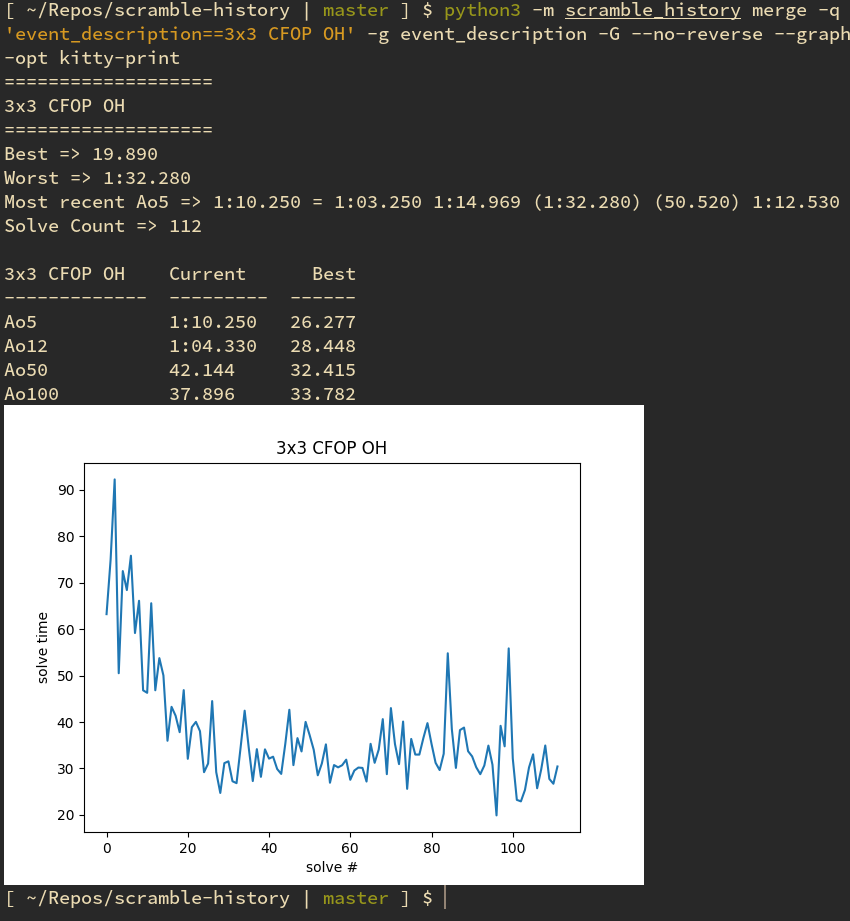
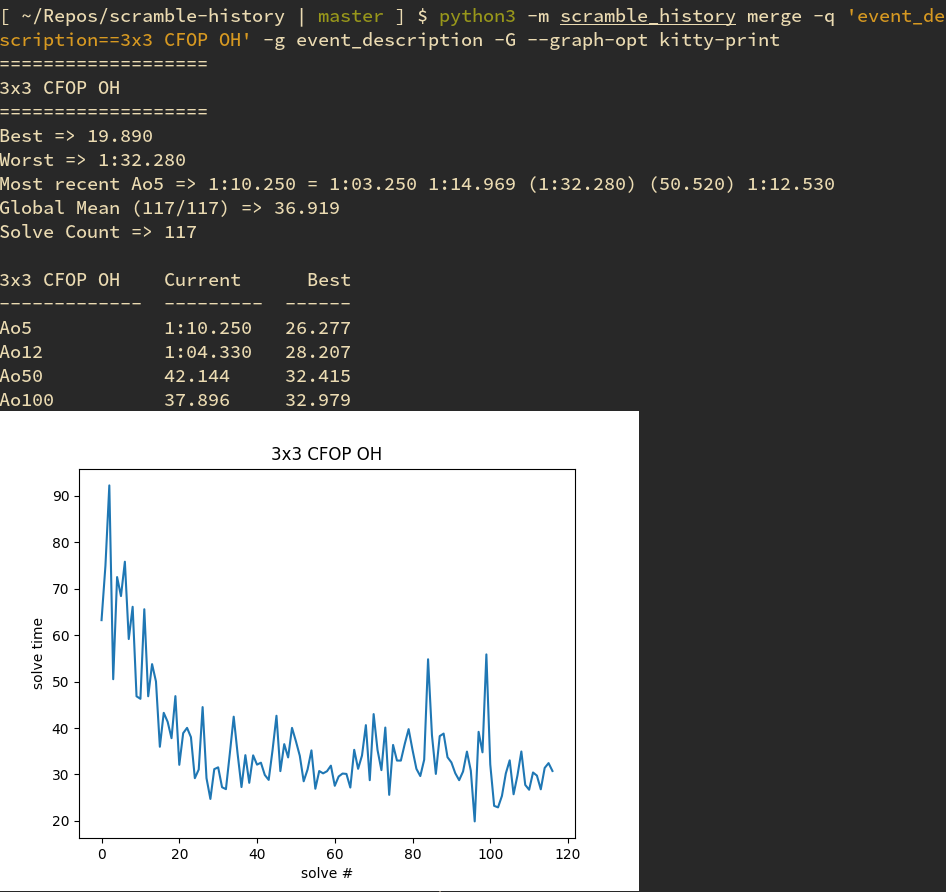
docs: fixed descriptions/reverse usage in readme

Changed region(s): [[0.0, 0.0, 1.0, 1.0], [0.8871, 0.2119, 1.0, 0.2422]]

diff --git a/tests/test_grouping.py b/tests/test_grouping.py
@@ -114,7 +114,7 @@ def test_average() -> None:
     assert g3.solve_count == 5
     assert len(g3.solves) == 5
     assert g3.result == Decimal("20.764666666666666827723020105622708797454833984375")
-    assert g3.describe() == "Ao5: 20.765 = 21.966 (21.966) (15.788) 23.533 18.362"
+    assert g3.describe() == "Ao5: 20.765 = 21.966 21.966 (15.788) (23.533) 18.362"
 
     g4 = unwrap(grouped([dnf, *solves], operation="average", count=5))
     assert g4.solve_count == 5
@@ -134,7 +134,7 @@ def test_average() -> None:
     assert g6.operation_code == "Ao100"
     assert (
         g6.describe()
-        == "Ao100: 19.933 = (DNF) (21.966) 21.966 21.966 21.966 21.966 21.966 21.966 21.966 21.966 21.966 21.966 21.966 21.966 21.966 21.966 21.966 21.966 21.966 21.966 21.966 21.966 21.966 21.966 21.966 15.788 15.788 15.788 15.788 15.788 15.788 15.788 15.788 15.788 15.788 15.788 15.788 15.788 15.788 15.788 15.788 15.788 15.788 15.788 15.788 15.788 15.788 15.788 15.788 15.788 23.533 23.533 23.533 23.533 23.533 23.533 23.533 23.533 23.533 23.533 23.533 23.533 23.533 23.533 23.533 23.533 23.533 23.533 23.533 23.533 23.533 23.533 23.533 23.533 23.533 18.362 18.362 18.362 18.362 18.362 18.362 18.362 18.362 18.362 18.362 18.362 18.362 18.362 18.362 18.362 18.362 18.362 18.362 18.362 18.362 18.362 18.362 18.362 18.362 18.362"
+        == "Ao100: 19.933 = (DNF) 21.966 21.966 21.966 21.966 21.966 21.966 21.966 21.966 21.966 21.966 21.966 21.966 21.966 21.966 21.966 21.966 21.966 21.966 21.966 21.966 21.966 21.966 21.966 21.966 (15.788) 15.788 15.788 15.788 15.788 15.788 15.788 15.788 15.788 15.788 15.788 15.788 15.788 15.788 15.788 15.788 15.788 15.788 15.788 15.788 15.788 15.788 15.788 15.788 15.788 23.533 23.533 23.533 23.533 23.533 23.533 23.533 23.533 23.533 23.533 23.533 23.533 23.533 23.533 23.533 23.533 23.533 23.533 23.533 23.533 23.533 23.533 23.533 23.533 23.533 18.362 18.362 18.362 18.362 18.362 18.362 18.362 18.362 18.362 18.362 18.362 18.362 18.362 18.362 18.362 18.362 18.362 18.362 18.362 18.362 18.362 18.362 18.362 18.362 18.362"
     )
     solve_times = [s.time for s in g6.solves if s.state == State.SOLVED]
     min_solve = min(solve_times)

diff --git a/scramble_history/group_operations.py b/scramble_history/group_operations.py
@@ -61,9 +61,10 @@ class Grouping(NamedTuple):
     def describe_average(self) -> str:
         # should always sort according to datetime,
         # first solve should appear first in the average
-        desc = [s.describe() for s in sorted(self.solves, key=lambda sl: sl.when)]
+        srt = sorted(self.solves, key=lambda sl: sl.when)
+        desc = [s.describe() for s in srt]
         if self.operation == "average" and self.state == State.SOLVED:
-            mini, maxi = findminmax(self.solves)
+            mini, maxi = findminmax(srt)
             # surround min/max with parenthesis
             desc[mini] = f"({desc[mini]})"
             desc[maxi] = f"({desc[maxi]})"

diff --git a/README.md b/README.md
@@ -94,7 +94,8 @@ Options:
                                   graph options
   -q, --query TEXT                Solves to filter to, or actions to run
   -s, --sort-by [when]            Sort the resulting solves
-  -r, --reverse / --no-reverse    Reverse the sort for --sort-by. --reverse is the default
+  -r, --reverse / --no-reverse    Reverse the sort for --sort-by. Default is --no-reverse, stats uses
+                                  --reverse
   --help                          Show this message and exit.
 ```
 
@@ -156,68 +157,68 @@ $ scramble_history merge -g event_description -a json
 It can also calculate running averages across your merged data:
 
 ```
-$ scramble_history merge -a stats
+[ ~/Repos/scramble-history | master ] $ python3 -m scramble_history merge -a stats
+Passed 'stats' with no '--group_by', grouping by 'event_description'
 ===================
 3x3 CFOP
 ===================
 Best => 11.880
-Worst => DNF
-Most recent Ao5 => 19.153 = 20.010 (21.470) 18.320 19.130 (18.000)
-Solve Count => 839
+Worst => 48.049
+Most recent Ao5 => 17.436 = 16.551 17.682 (24.941) (16.531) 18.076
+Global Mean (841/847) => 19.681
+Solve Count => 847
 
 3x3 CFOP    Current      Best
 ----------  ---------  ------
-Ao5         19.153     14.647
-Ao12        19.132     16.898
-Ao50        18.612     18.092
+Ao5         17.436     14.647
+Ao12        18.605     16.898
+Ao50        18.725     18.092
 Ao100       DNF        18.444
 ===================
 2x2
 ===================
 Best => 3.121
-Worst => DNF
-Most recent Ao5 => 8.927 = 8.664 7.816 (6.469) 10.302 (12.850)
-Solve Count => 311
+Worst => 50.170
+Most recent Ao5 => 6.403 = (7.240) 6.480 6.250 (6.150) 6.480
+Global Mean (317/318) => 8.820
+Solve Count => 318
 
 2x2      Current    Best
 -----  ---------  ------
-Ao5        8.927   5.58
-Ao12       7.321   6.252
-Ao50       7.598   7.214
-Ao100      7.554   7.427
+Ao5        6.403   5.58
+Ao12       7.494   6.252
+Ao50       7.574   7.214
+Ao100      7.553   7.427
+===================
+4x4
+===================
+Best => 1:15.592
+Worst => 5:39.830
+Most recent Ao5 => 1:33.173 = (1:27.770) (1:41.280) 1:38.735 1:28.795 1:31.988
+Global Mean (129/129) => 2:25.470
+Solve Count => 129
+
+4x4    Current    Best
+-----  ---------  --------
+Ao5    1:33.173   1:33.173
+Ao12   1:36.256   1:36.256
+Ao50   1:51.013   1:51.013
+Ao100  2:09.471   2:09.471
 ===================
 3x3 CFOP OH
 ===================
 Best => 19.890
 Worst => 1:32.280
-Most recent Ao5 => 29.327 = 29.800 (34.950) 27.750 (26.710) 30.430
-Solve Count => 112
+Most recent Ao5 => 30.640 = 29.760 (26.800) 31.410 (32.450) 30.750
+Global Mean (117/117) => 36.919
+Solve Count => 117
 
 3x3 CFOP OH      Current    Best
 -------------  ---------  ------
-Ao5               29.327  26.61
-Ao12              29.879  29.697
-Ao50              32.892  32.285
-Ao100             33.766  33.766
-```
-
-You can specifically filter to a solve type with `--query`:
-
-```
-$ scramble_history merge --query 'event_description==3x3 CFOP' -a stats
-===================
-3x3 CFOP
-===================
-Best => 11.880
-Most recent Ao5 => 19.847 = 19.520 (16.040) 18.240 21.780 (23.980)
-Solve Count => 834
-
-3x3 CFOP    Current      Best
-----------  ---------  ------
-Ao5         19.847     14.647
-Ao12        19.115     16.898
-Ao50        18.603     18.092
-Ao100       DNF        18.444
+Ao5               30.64   26.61
+Ao12              29.123  29.123
+Ao50              32.776  32.285
+Ao100             32.923  32.923
 ```
 
 Or provide other commands to run instead of `--action stats`:
@@ -241,13 +242,13 @@ To save to a png, use `--graph-opt save`. If you use [kitty](https://sw.kovidgoy
 
 Can also be used in combination with `--query drop:` and `--query limit:` to only graph a portion of your history. For example to graph a rolling `ao12` from some time ago:
 
-`scramble_history merge -q 'event_description==3x3 CFOP' -q drop:750 -q limit:12 -g event_description -G --graph-opt kitty-print`
+`scramble_history merge -q 'event_description==3x3 CFOP' -q drop:750 -q limit:12 --no-reverse -g event_description -G --graph-opt kitty-print`
 
 <img src="https://github.com/seanbreckenridge/scramble-history/blob/master/.github/ao12.png?raw=true" height=300>
 
 Can provide the `annotate` options if you want to add some of the text onto the graph:
 
-`scramble_history merge -q 'event_description==4x4' -q 'first:5' -G --graph-opt annotate --graph-opt annotate-average`
+`scramble_history merge -q 'event_description==4x4' -q 'last:5' -G --no-reverse --graph-opt annotate --graph-opt annotate-average`
 
 <img src="https://github.com/seanbreckenridge/scramble-history/blob/master/.github/annotated.png?raw=true" height=300>
 
@@ -339,7 +340,7 @@ $ scramble_history merge -q 'puzzle==222' -q best
 These let you take the first or last `n` items, like `limit`. To get your most recent `Ao5`:
 
 ```bash
-$ scramble_history merge -q 'event_description==4x4' -q 'first:5' -q ao5
+$ scramble_history merge --no-reverse -q 'event_description==4x4' -q 'last:5' -q ao5
 Ao5: 1:44.160 = 1:49.547 1:45.144 1:37.790 (1:52.195) (1:32.934)
 ```
 
